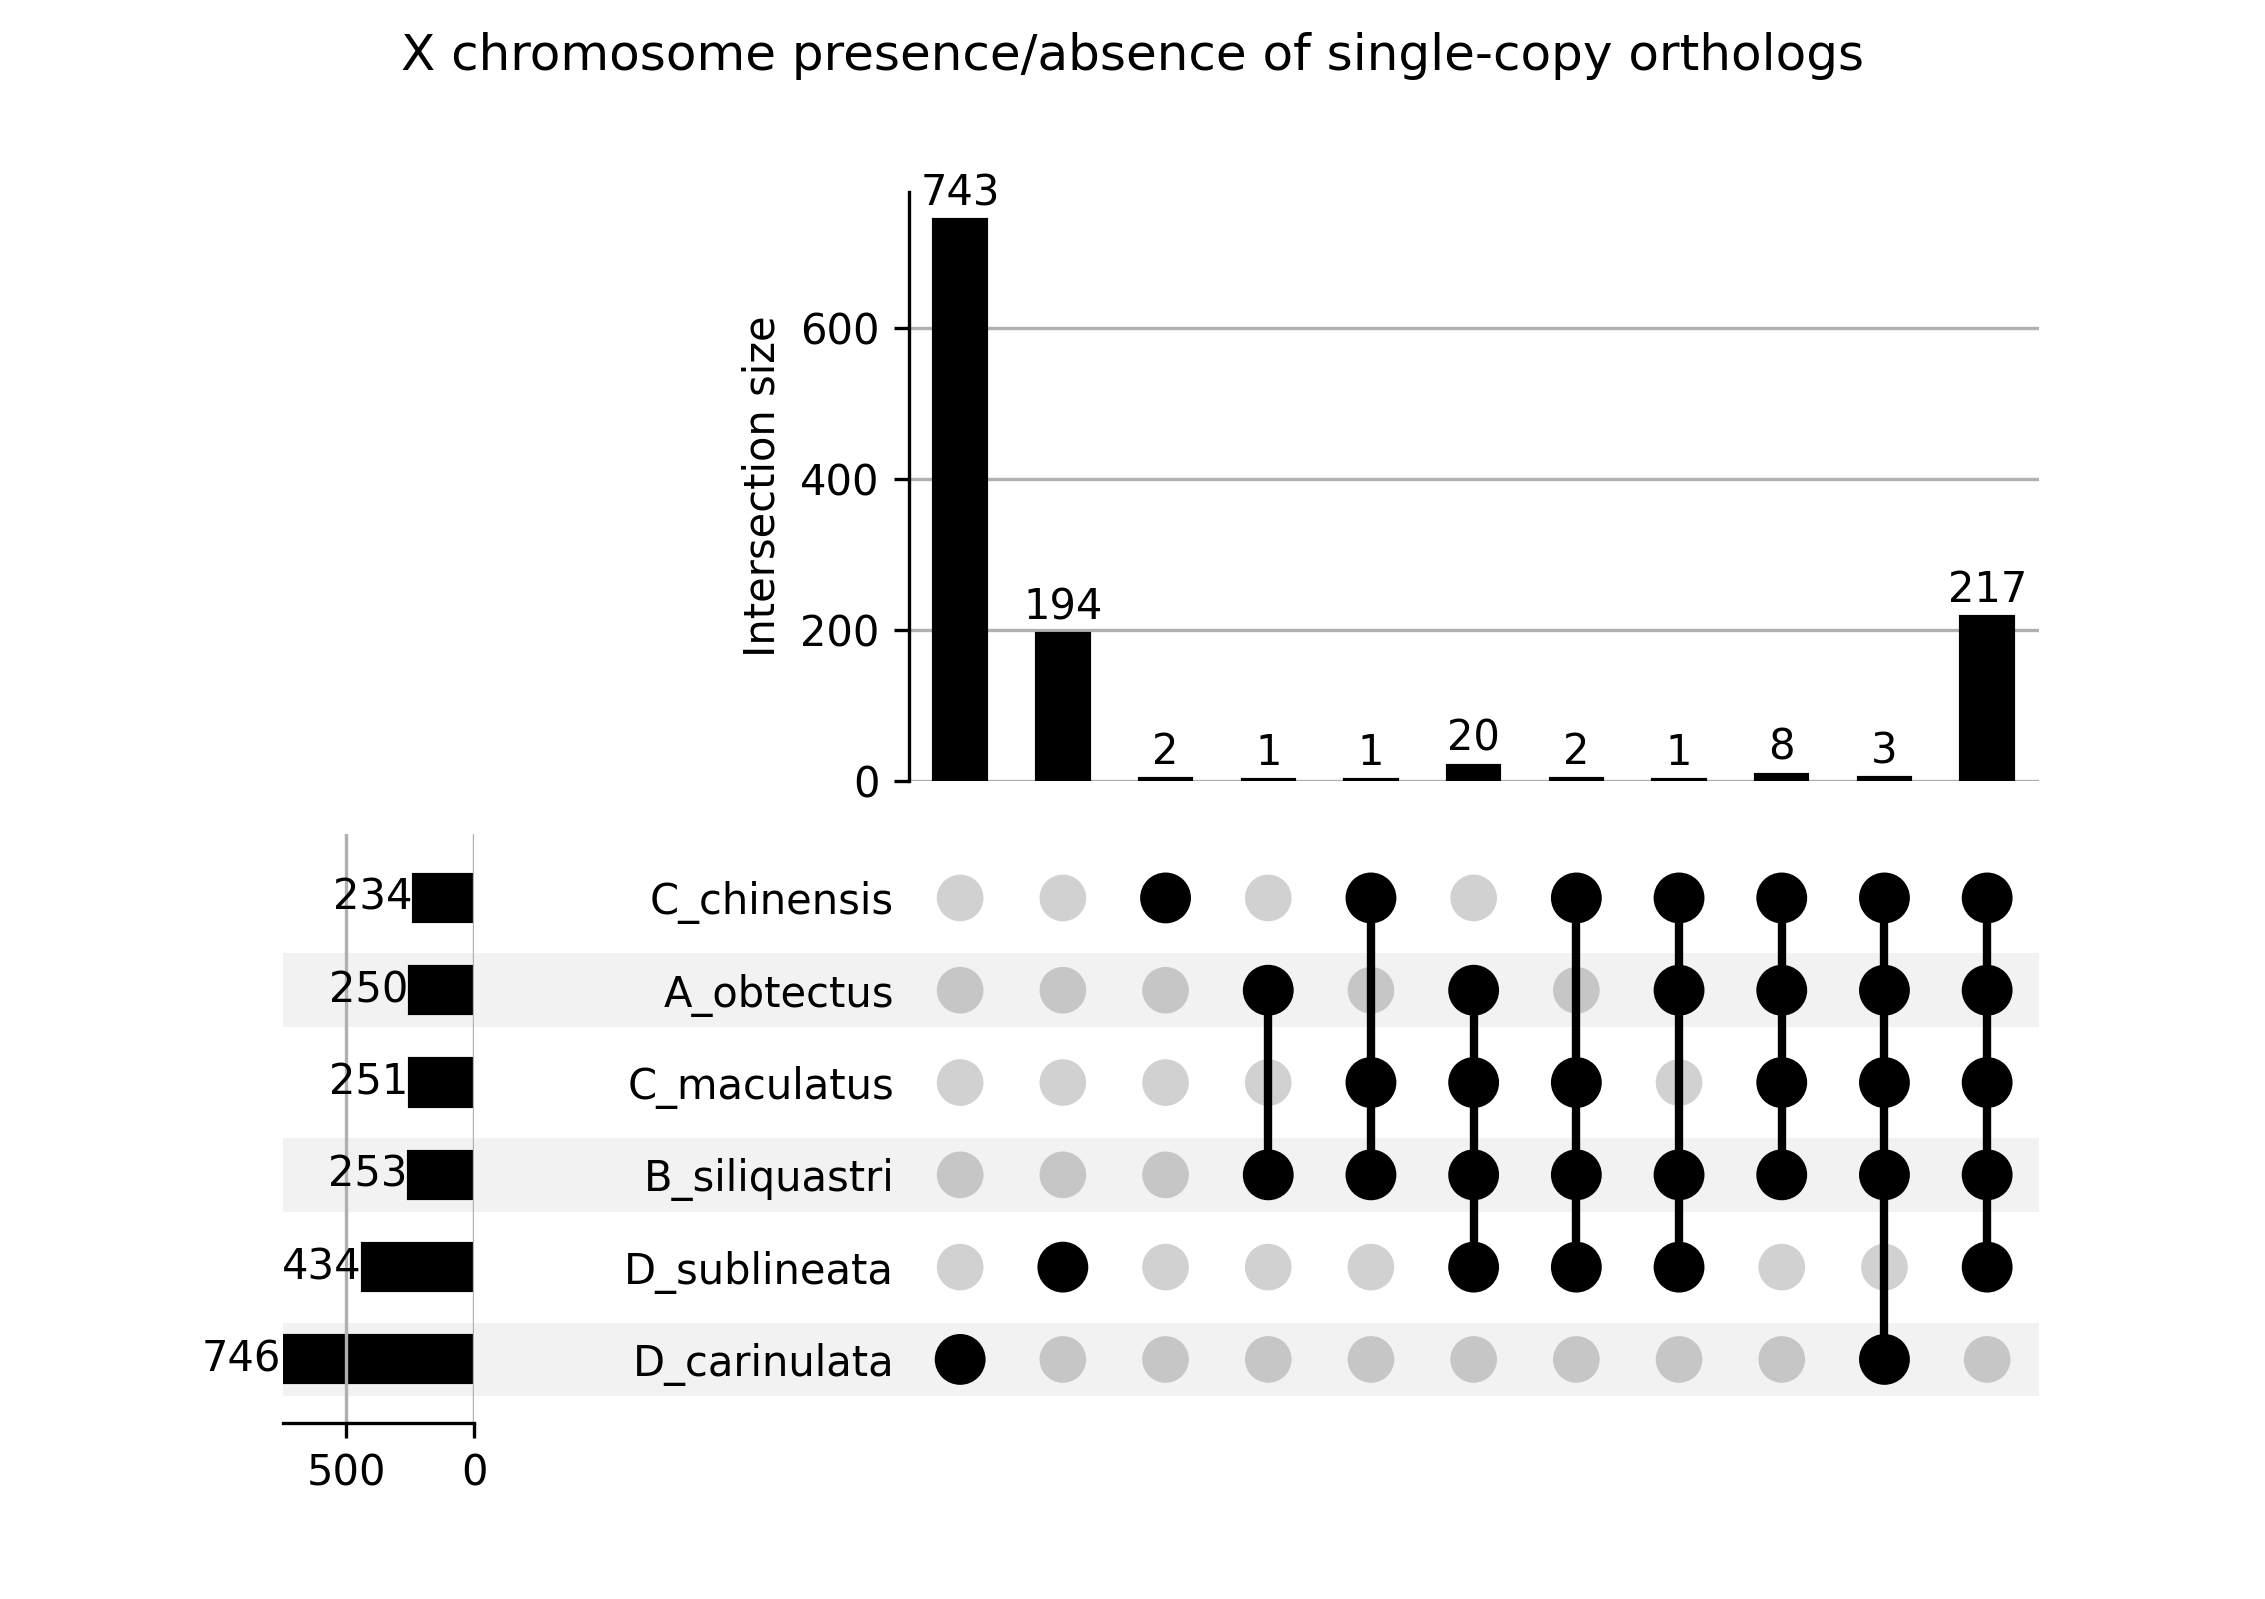
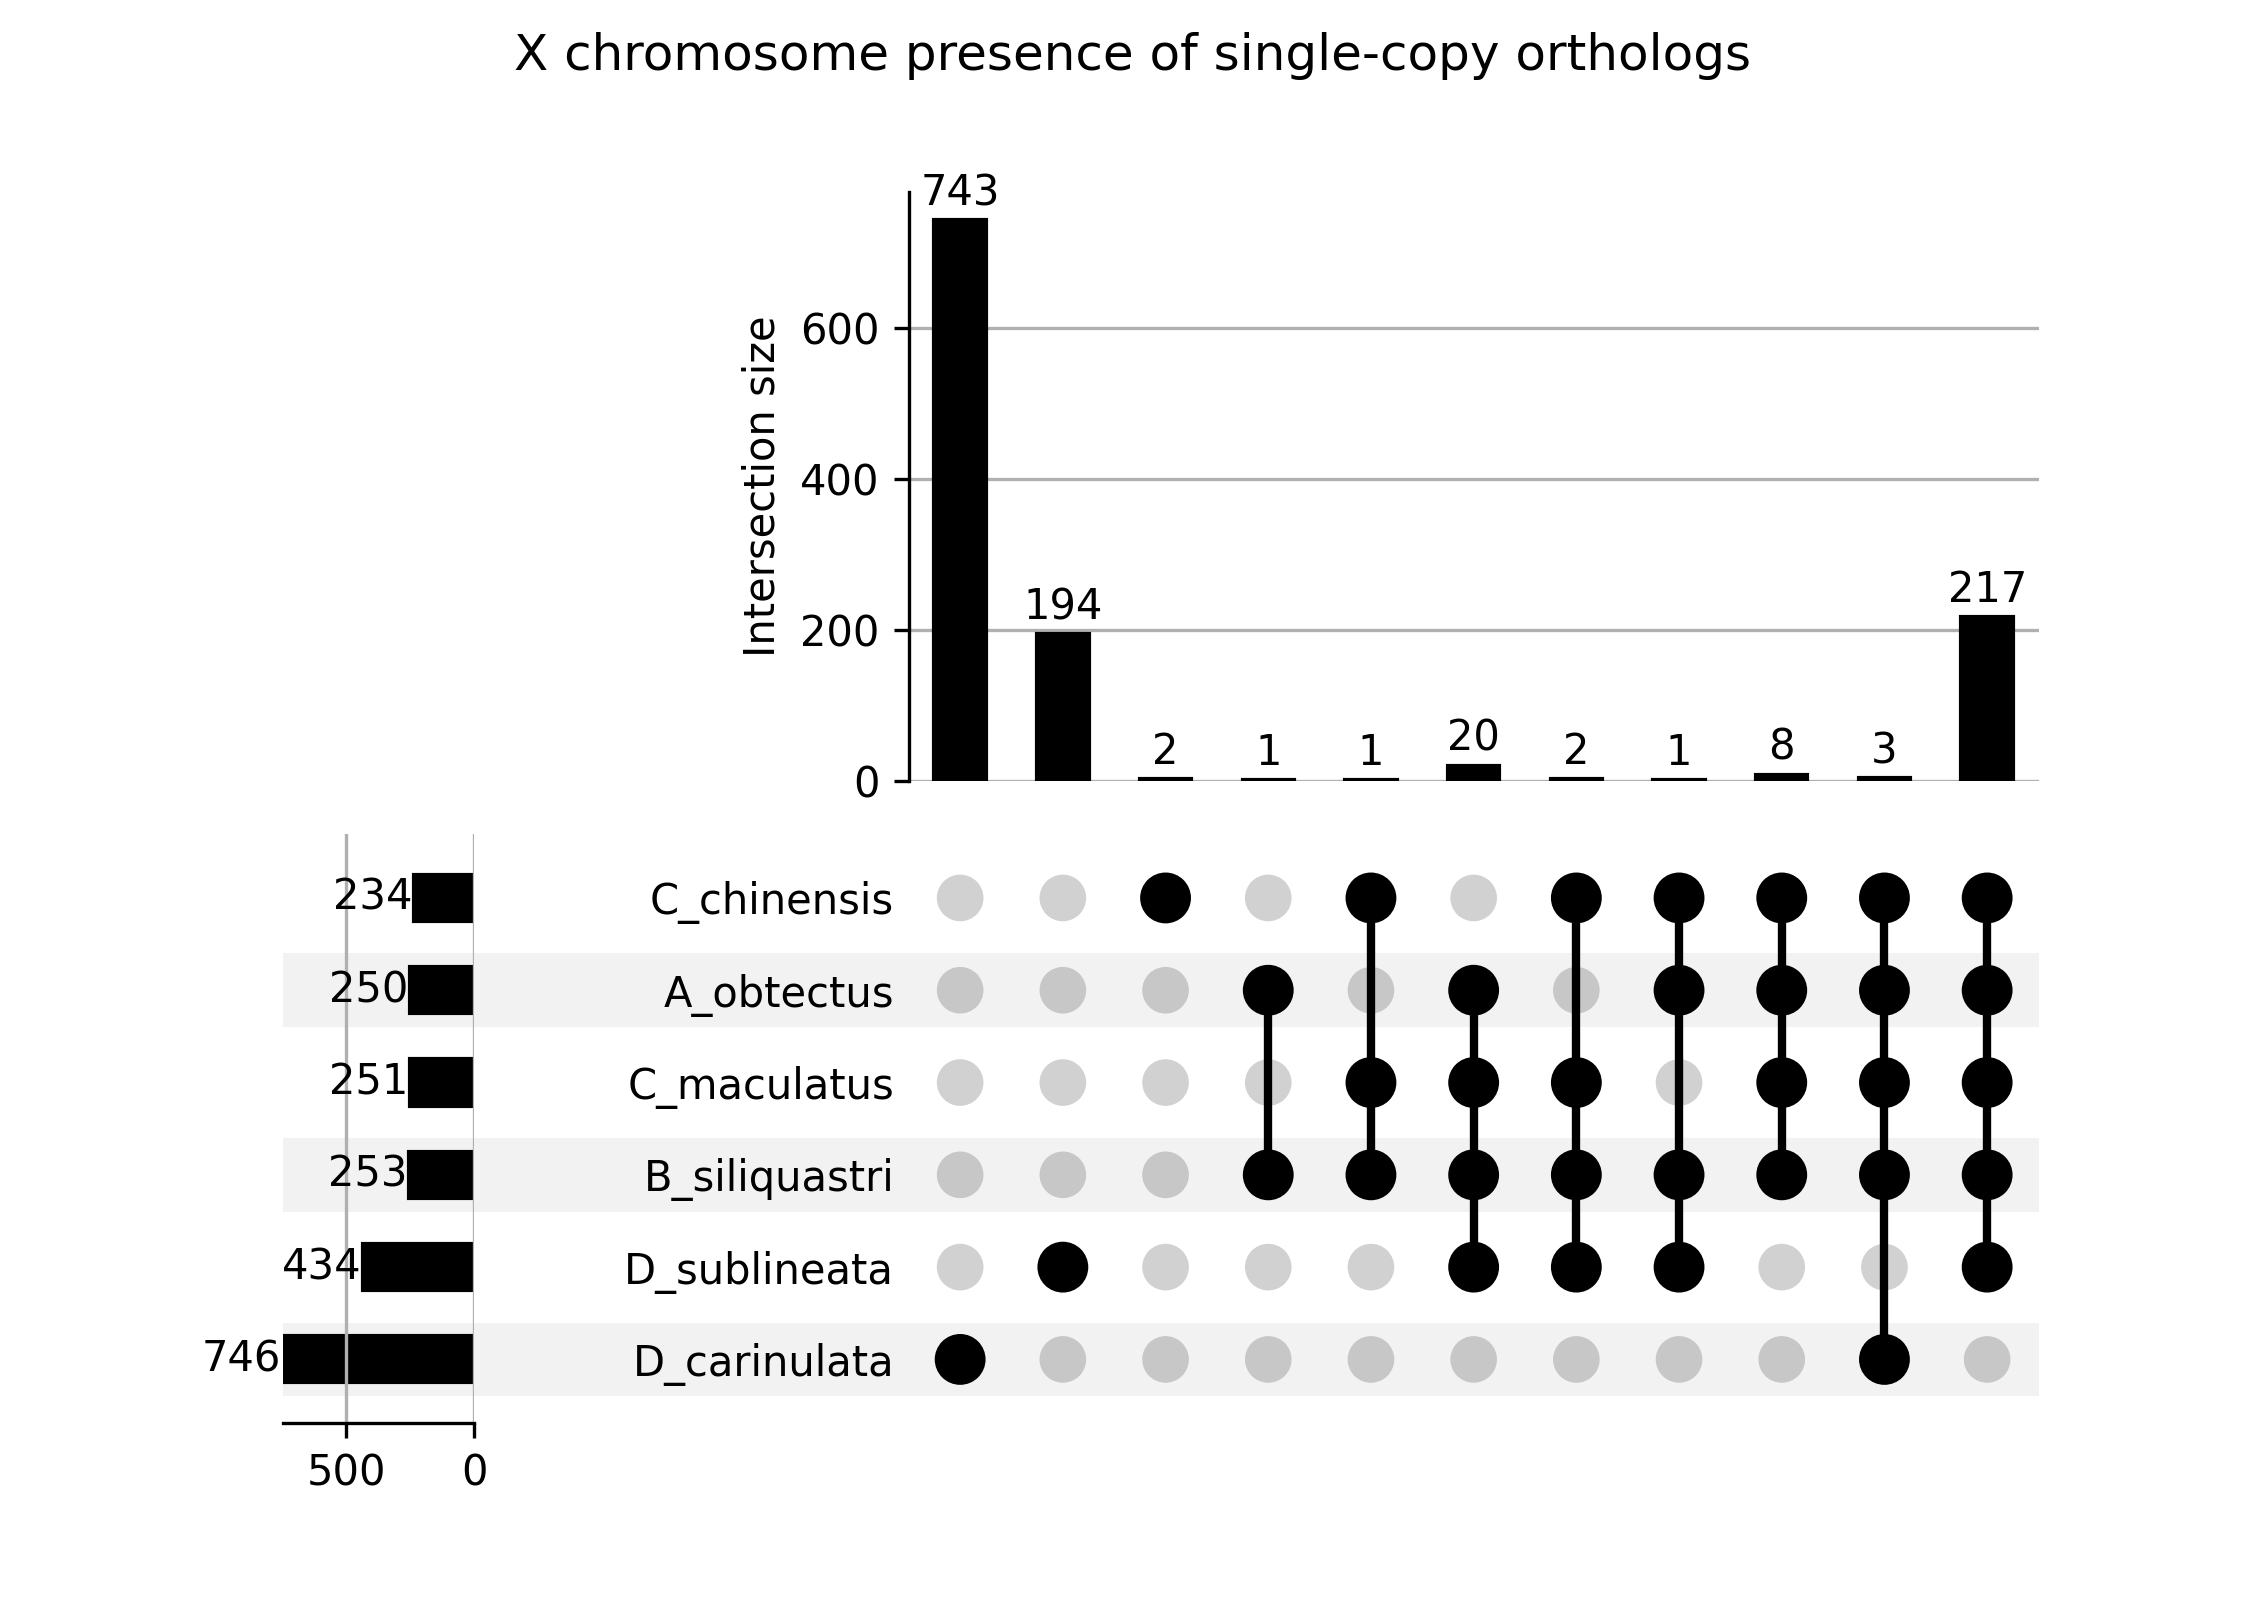
fix upset plot

Changed region(s): [[0.1854, 0.0, 0.8344, 0.0613]]

diff --git a/src/filter_OGs_for_fastX_categories.py b/src/filter_OGs_for_fastX_categories.py
@@ -261,7 +261,7 @@ def write_orthogroups_contigs_to_file(orthogroups:dict, sex_chromosomes_contigs_
 
             OG_species_list = orthogroup.member_species_list
             # only include 1-to-1 orthologs that have a member in all species in the species list
-            if len(species_list) != len(OG_species_list):
+            if len(set(species_list) - set(OG_species_list))>0:
                 # print(f"{orthogroup.ID} does not contain all species")
                 continue
 
@@ -306,8 +306,8 @@ def plot_orthogroup_sex_chromosome_table(orthogroups_sex_chromosomes_file, filte
 
     # Plotting
     plot_name = orthogroups_sex_chromosomes_file.split(".")[0]+"_upset_plot.png"
-    plt.suptitle("X chromosome presence/absence of single-copy orthologs")
-    plt.savefig(plot_name, dpi = 300)
+    plt.suptitle("X chromosome presence of single-copy orthologs")
+    plt.savefig(plot_name, dpi = 300, transparent = True)
     print(f"plot saved here: {plot_name}") 
 
 if __name__ == "__main__":
@@ -335,6 +335,8 @@ if __name__ == "__main__":
             print(f"\n{len(orthogroups)} orthogroups in original file, {len(orthogroups_contigs_dict)} in filtered file with contigs\n")
 
         binary_file_for_upset = write_orthogroups_contigs_to_file(orthogroups=orthogroups_contigs_dict, sex_chromosomes_contigs_file = f"{data_dir}/orthogroups_by_contig.tsv", species_list=tree_species_list, binary_file = True)
+        # binary_file_for_upset = write_orthogroups_contigs_to_file(orthogroups=orthogroups_contigs_dict, sex_chromosomes_contigs_file = f"{data_dir}/orthogroups_by_contig.tsv", species_list=['A_obtectus', 'B_siliquastri', 'C_maculatus', 'C_chinensis'], binary_file = True)
+        # binary_file_for_upset = write_orthogroups_contigs_to_file(orthogroups=orthogroups_contigs_dict, sex_chromosomes_contigs_file = f"{data_dir}/orthogroups_by_contig.tsv", species_list=['D_carinulata', 'D_sublineata'], binary_file = True)
         
         if False:
             OG_example = "N0.HOG0005248"
